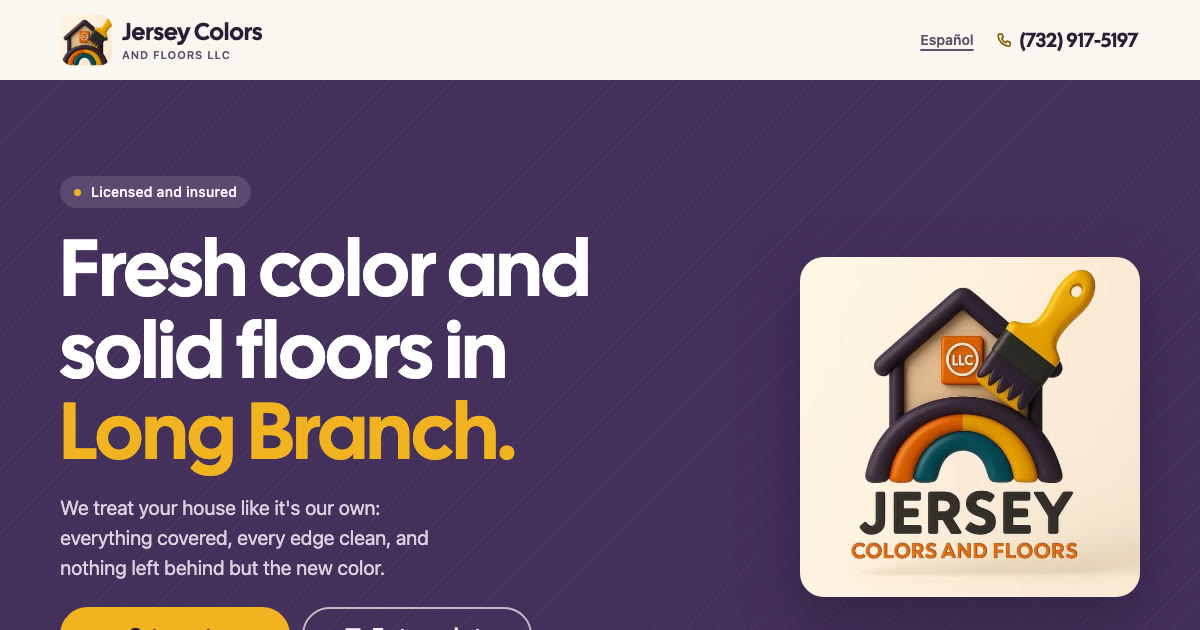
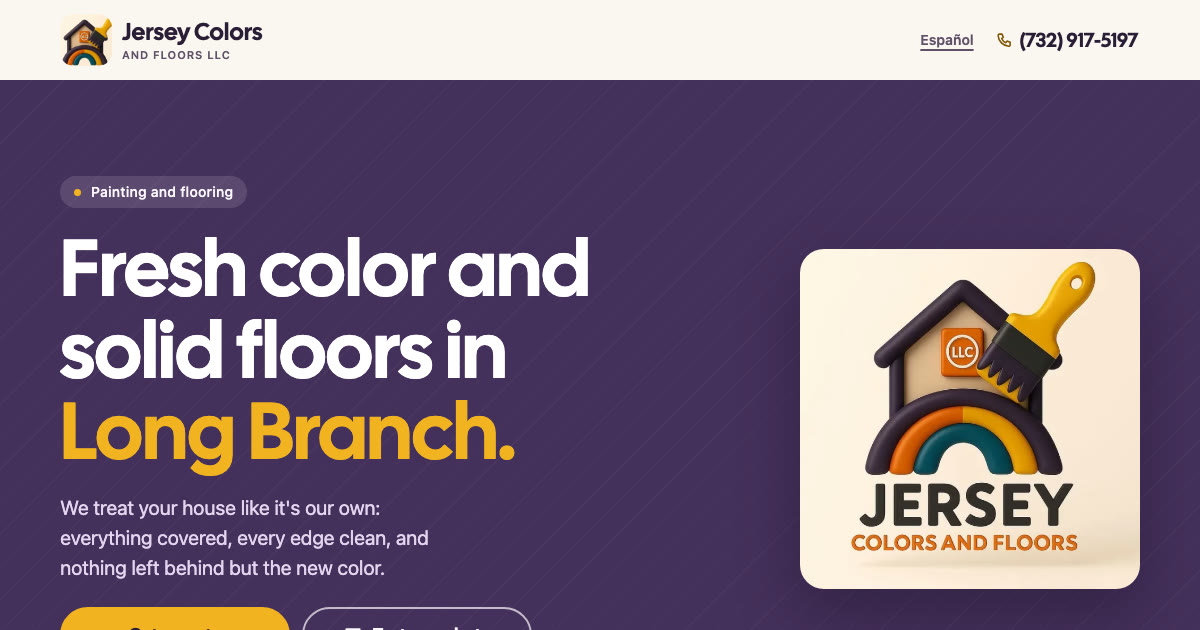
Apply the Impeccable sweep: truth fixes (no licensing claim up top, no unconfirmed site visit), press feedback, chip checks, landscape hero, ES title, desktop work layout
Claude-Session: https://claude.ai/code/session_013PahujnXCzoN9ziQNNxQyR

diff --git a/index.html b/index.html
@@ -4,13 +4,13 @@
 <meta charset="utf-8">
 <meta name="viewport" content="width=device-width, initial-scale=1, viewport-fit=cover">
 <title>Jersey colors and floors LLC · Painting and floors in Long Branch, NJ</title>
-<meta name="description" content="Interior and exterior painting, siding and trim, floors and home remodeling. Licensed and insured. Long Branch, NJ. Call (732) 917-5197.">
+<meta name="description" content="Interior and exterior painting, siding and trim, floors and home remodeling in Long Branch, NJ. Call (732) 917-5197.">
 <meta name="theme-color" content="#faf6f1">
 <link rel="icon" type="image/png" href="assets/favicon.png">
 <link rel="apple-touch-icon" href="assets/apple-touch-icon.png">
 <meta property="og:type" content="website">
 <meta property="og:title" content="Jersey colors and floors LLC · Painting and floors in Long Branch, NJ">
-<meta property="og:description" content="Fresh color and solid floors. Licensed and insured. Text us a photo of the job for a quote.">
+<meta property="og:description" content="Fresh color and solid floors in Long Branch, NJ. Text us a photo of the job for a quote.">
 <meta property="og:url" content="https://10elizabethbell.github.io/jerseyColors/">
 <meta property="og:image" content="https://10elizabethbell.github.io/jerseyColors/assets/og.jpg">
 <meta property="og:image:width" content="1200">
@@ -26,18 +26,17 @@
   --paper:#faf6f1;       /* page ground */
   --cream:#fbead6;       /* light band: the logo's own background */
   --card:#ffffff;
-  --field:#efe5da;       /* inputs and chips on the white form card */
+  --field:#ebdfd2;       /* inputs and chips on the white form card */
   --ink:#2b1d36;         /* headings, text on gold */
   --body:#3d2f47;        /* running text on light */
   --soft:#5f5068;        /* secondary text on light */
   --navy:#45305c;        /* mid plum: hero, close */
   --deep:#271a32;        /* how a job goes, footer (line texture) */
   --on-dark:#fbf7fb;
-  --on-dark-soft:#ddd0e2;
+  --on-dark-soft:#e5d3ef;
   --gold:#f2b322;        /* fills only; text on it is --ink */
   --gold-2:#f7c650;
   --gold-ink:#7f5300;    /* gold as text on light */
-  --orange:#dd6e14;      /* logo arch, decoration only */
   --teal:#0e6470;        /* form hover/focus outline, distinct from the gold fill */
   --line:rgba(43,29,54,.12);
   --error:#b3261e;
@@ -86,7 +85,7 @@ section{padding:64px 0}
 .btn svg{width:20px;height:20px;flex:none}
 .btn-primary{background:var(--gold);color:var(--ink);border-color:var(--gold)}
 .btn-ghost{background:transparent;color:var(--on-dark);border-color:rgba(251,247,251,.7)}
-.btn-line{background:transparent;color:var(--ink);border-color:rgba(43,29,54,.35)}
+.btn-line{background:transparent;color:var(--ink);border-color:rgba(43,29,54,.55)}
 
 /* ---------- Header ---------- */
 .top{background:var(--paper);color:var(--ink)}
@@ -107,9 +106,9 @@ section{padding:64px 0}
 }
 
 /* ---------- Hero ---------- */
-.hero{padding:0;position:relative;background-color:var(--navy);background-image:var(--texture);color:var(--on-dark);overflow:hidden}
+.hero{padding:56px 0 64px;position:relative;background-color:var(--navy);background-image:var(--texture);color:var(--on-dark);overflow:hidden}
 .hero .wrap{position:relative}
-.hero-copy{position:relative;z-index:1;display:grid;gap:20px;justify-items:start;padding-top:56px;padding-bottom:64px}
+.hero-copy{position:relative;z-index:1;display:grid;gap:20px;justify-items:start}
 .hero h1{color:#fff;font-size:clamp(42px,12vw,80px);line-height:1.02;max-width:12ch}
 /* H1 bounce-in (after lpmr.co.uk): each letter slides in from 50px right with a slight overshoot, 20ms apart */
 .hero h1 .w{display:inline-block;white-space:nowrap}
@@ -124,8 +123,9 @@ section{padding:64px 0}
 .rows li+li{border-top:1px solid var(--line)}
 .row{display:flex;align-items:center;justify-content:space-between;gap:16px;min-height:72px;padding:12px 0;text-decoration:none;color:var(--ink);font:400 clamp(21px,5.6vw,26px)/1.15 var(--display)}
 .row:hover,.row:focus-visible{outline:none;background:none;box-shadow:none}
-.arrow{width:44px;height:44px;flex:none;border-radius:50%;display:grid;place-items:center;background:rgba(43,29,54,.07);color:var(--ink);transition:background-color .2s,color .2s}
-.arrow svg{width:18px;height:18px}
+.arrow{width:44px;height:44px;flex:none;border-radius:50%;display:grid;place-items:center;background:rgba(43,29,54,.07);color:var(--ink);transition:background-color .2s,color .2s,transform .12s}
+.arrow svg{width:18px;height:18px;transition:transform .2s cubic-bezier(.16,1,.3,1)}
+.row:active .arrow,.fb:active .arrow{transform:scale(.92)}
 .row:focus-visible .arrow{background:var(--gold);outline:3px solid var(--teal);outline-offset:3px}
 
 /* ---------- How a job goes ---------- */
@@ -137,9 +137,11 @@ section{padding:64px 0}
 
 /* ---------- Our work ---------- */
 .post{margin:32px 0 0;background:var(--card);border-radius:var(--r-card);padding:clamp(22px,6vw,36px);max-width:640px}
+.post blockquote{margin:0}
 .post p{font:400 clamp(24px,6.6vw,34px)/1.2 var(--display);color:var(--ink)}
 .post em{font-style:normal;color:var(--gold-ink)}
-.post cite{display:block;margin-top:16px;font:400 15px/1.4 var(--text);font-style:normal;color:var(--soft)}
+.post figcaption{margin-top:16px;font:400 15px/1.4 var(--text);color:var(--soft)}
+.post cite{font-style:normal}
 .fb{margin-top:20px;display:flex;align-items:center;justify-content:space-between;gap:14px;min-height:76px;padding:14px 16px 14px 22px;border-radius:var(--r-card);background:var(--navy);color:var(--on-dark);text-decoration:none;font:400 clamp(19px,5.2vw,22px)/1.2 var(--display);max-width:640px}
 .fb:hover,.fb:focus-visible{outline:none;box-shadow:none}
 .fb .lbl{display:flex;align-items:center;gap:14px}
@@ -161,9 +163,12 @@ input::placeholder,textarea::placeholder{color:var(--soft)}
 input[type=text]:focus,textarea:focus{outline:none;border-color:var(--teal)}
 .chips{display:flex;flex-wrap:wrap;gap:10px}
 .chips input{position:absolute;width:1px;height:1px;opacity:0;margin:0}
-.chips label{display:inline-flex;align-items:center;min-height:48px;padding:0 18px;border-radius:var(--pill);background:var(--field);border:2px solid transparent;font:16px/1 var(--text);color:var(--ink);cursor:pointer;margin:0;transition:border-color .15s,background-color .15s,color .15s}
+.chips label{display:inline-flex;align-items:center;min-height:48px;padding:0 18px;border-radius:var(--pill);background:var(--field);border:2px solid transparent;font:16px/1 var(--text);color:var(--ink);cursor:pointer;margin:0;transition:border-color .15s,background-color .15s,color .15s,box-shadow .2s,transform .12s}
+.chips label:active{transform:scale(.97)}
 .chips input:focus-visible+label{outline:3px solid var(--teal);outline-offset:3px}
 .chips input:checked+label{background:var(--ink);color:#fff}
+.chips input:checked+label::before{content:"";width:12px;height:6px;margin-right:9px;border:solid currentColor;border-width:0 0 2.5px 2.5px;transform:translateY(-2px) rotate(-45deg)}
+.chips input.just+label{box-shadow:0 0 0 3px var(--gold)}
 .err{font-size:15px;color:var(--error)}
 .err:empty{display:none}
 .field.bad input[type=text]{border-color:var(--error)}
@@ -179,10 +184,9 @@ form .btn-primary:focus-visible{outline:3px solid var(--teal);outline-offset:3px
 @media (max-width:380px){.chips label{padding:0 14px}}
 
 /* ---------- Close ---------- */
-.close .who{margin-top:14px;font-size:clamp(18px,5vw,20px);color:var(--on-dark-soft)}
 .bigtel{display:inline-flex;align-items:center;gap:12px;margin-top:28px;font:400 clamp(30px,9vw,52px)/1 var(--display);text-decoration:none;color:var(--on-dark);min-height:56px;white-space:nowrap}
 .bigtel svg{width:.8em;height:.8em;flex:none;color:var(--gold)}
-.area{margin-top:22px;max-width:40ch}
+.area{margin-top:16px;max-width:40ch;font-size:clamp(17px,4.6vw,19px)}
 
 /* ---------- Footer ---------- */
 footer{background-color:var(--deep);background-image:var(--texture);color:var(--on-dark-soft);padding:48px 0 calc(96px + env(safe-area-inset-bottom));font-size:16px}
@@ -193,13 +197,19 @@ footer a{display:inline-flex;align-items:center;min-height:44px;color:var(--on-d
 footer small{font-size:14px}
 
 /* ---------- Floating text circle (one circle, never a bottom bar) ---------- */
-.float{position:fixed;z-index:15;right:calc(16px + env(safe-area-inset-right));bottom:calc(16px + env(safe-area-inset-bottom));width:60px;height:60px;border-radius:50%;display:grid;place-items:center;background:var(--gold);color:var(--ink);box-shadow:0 10px 28px rgba(39,26,50,.32);transform:translateY(120px);transition:transform .35s cubic-bezier(.2,.8,.2,1)}
-.float.on{transform:none}
+.float{display:none;position:fixed;z-index:15;right:calc(16px + env(safe-area-inset-right));bottom:calc(16px + env(safe-area-inset-bottom));width:60px;height:60px;border-radius:50%;display:grid;place-items:center;background:var(--gold);color:var(--ink);box-shadow:0 10px 28px rgba(39,26,50,.32);transform:translateY(120px);transition:transform .22s cubic-bezier(.2,.8,.2,1)}
+.js .float{display:grid}
+.float.on{transform:none;transition-duration:.35s}
+.float.on:active{transform:scale(.94)}
 .float svg{width:26px;height:26px}
 .float:focus-visible{outline:3px solid var(--teal);outline-offset:3px;border-radius:50%}
 
 /* ---------- Motion: one fade-up, only for things below the first screen ---------- */
-.js .rise{transition:opacity .4s ease-out,transform .4s ease-out}
+.js .rise{transition:opacity .4s cubic-bezier(.16,1,.3,1),transform .4s cubic-bezier(.16,1,.3,1)}
+.js .rows li.rise:nth-child(2){transition-delay:40ms}
+.js .rows li.rise:nth-child(3){transition-delay:80ms}
+.js .rows li.rise:nth-child(4){transition-delay:120ms}
+.js .rows li.rise:nth-child(5){transition-delay:160ms}
 .js .rise.below{opacity:0;transform:translateY(12px)}
 
 /* ---------- Desktop ---------- */
@@ -212,7 +222,7 @@ footer small{font-size:14px}
   .lang .long{display:inline}.lang .short{display:none}
   .tel{font-size:20px}
   section{padding:96px 0}
-  .hero-copy{padding-top:96px;padding-bottom:112px}
+  .hero{padding:96px 0 112px}
   .actions{grid-auto-flow:column;justify-content:start;width:auto}
   .actions .btn{min-width:230px}
   .rows{grid-template-columns:1fr 1fr;column-gap:56px}
@@ -224,7 +234,7 @@ footer small{font-size:14px}
   .hero-logo{display:block;width:340px;height:340px;border-radius:var(--r-card);box-shadow:0 24px 60px rgba(20,10,30,.35)}
   .work .wrap{display:grid;grid-template-columns:1fr 1.4fr;column-gap:64px;align-items:start}
   .work .post{margin-top:0;grid-column:2;grid-row:1/3}
-  .work .fb{grid-column:1;grid-row:2;align-self:end;margin-top:32px}
+  .work .fb{grid-column:1;grid-row:2;align-self:start;margin-top:28px}
   .ask .wrap{grid-template-columns:1fr 1.2fr;gap:64px;align-items:start}
   .ask .head{position:sticky;top:40px}
   .close .wrap{display:grid;grid-template-columns:1fr auto;gap:48px;align-items:end}
@@ -241,6 +251,8 @@ footer small{font-size:14px}
   .btn-line:hover{border-color:var(--teal)}
   .row:hover .arrow{background:var(--gold);color:var(--ink)}
   .fb:hover .arrow{background:var(--gold);color:var(--ink)}
+  .row:hover .arrow svg,.fb:hover .arrow svg{transform:translateX(3px)}
+  .field.bad input[type=text]:hover{border-color:var(--error)}
   input[type=text]:hover,textarea:hover{border-color:var(--teal)}
   .chips label:hover{border-color:var(--teal)}
   form .btn-primary:hover{outline:3px solid var(--teal);outline-offset:3px}
@@ -248,9 +260,19 @@ footer small{font-size:14px}
   .bigtel:hover{color:var(--gold)}
   footer a:hover{color:var(--gold)}
 }
+/* landscape phones: keep the buttons on the first screen */
+@media (min-width:760px) and (max-height:500px){
+  .hero{padding:32px 0 40px}
+  .hero-copy{gap:14px}
+  .hero h1{font-size:52px}
+  section{padding:64px 0}
+}
 @media (prefers-reduced-motion:reduce){
   html{scroll-behavior:auto}
-  .js .rise,.float,.btn{transition:none}
+  .js .rise,.float{transition:none}
+  .btn,.chips label,.arrow{transition:background-color .2s,color .2s,border-color .2s}
+  .btn:active,.chips label:active,.row:active .arrow,.fb:active .arrow,.float.on:active{transform:none}
+  .arrow svg,.row:hover .arrow svg,.fb:hover .arrow svg{transition:none;transform:none}
   .js .rise.below{opacity:1;transform:none}
   .hero h1 .c{animation:none;opacity:1;transform:none}
 }
@@ -260,8 +282,8 @@ footer small{font-size:14px}
 <!--
 THESIS: A painting and floors crew with no website gets a calm, orderly home online (after lpmr.co.uk) that says who they are, that they treat the house like their own, and how to get a quote by text.
 OWN-WORLD: The logo's own colours mapped onto the calm bands: warm paper and the logo's cream, mid plum (#45305c) and deep plum (#271a32, faint diagonal lines) from the logo outline, brush gold (#f2b322) as the one warm accent (fills only; #7f5300 as text on light). Cal Sans display, system body at 16/1.7.
-STORY: The visitor sees fresh color and floors in Long Branch from a licensed, insured crew, scans what they do, sees how a job goes and their latest finished job, and texts a quote request with a photo.
-FIRST VIEWPORT: Paper header with logo mark and wordmark left, ES toggle and tap-to-call number top right. Plum hero with line texture: eyebrow "Licensed and insured", "Fresh color and solid floors in Long Branch.", one promise line, two pill buttons (Get a quote, Text us a photo). Desktop adds the full logo on a card to the right.
+STORY: The visitor sees fresh color and floors in Long Branch from a crew that treats the house like its own, scans what they do, sees how a job goes and their latest finished job, and texts a quote request with a photo.
+FIRST VIEWPORT: Paper header with logo mark and wordmark left, ES toggle and tap-to-call number top right. Plum hero with line texture: eyebrow "Painting and flooring", "Fresh color and solid floors in Long Branch.", one promise line, two pill buttons (Get a quote, Text us a photo). Desktop adds the full logo on a card to the right.
 FORM: calm band system without a photo hero (no verified work photos: the only candidate is an unconfirmed roof tear-off with faces). The earlier paint-the-house world is in git history (dd2c66a) and is the opt-in signature runner-up.
 FINISH: unreviewed and undocumented is unfinished; this build ends with the finish review, the verdict, DESIGN.md, and every shipping raster carrying its provenance
 -->
@@ -286,7 +308,7 @@ FINISH: unreviewed and undocumented is unfinished; this build ends with the fini
 <section class="hero" id="hero" aria-labelledby="h1">
   <div class="wrap">
     <div class="hero-copy">
-      <p class="eyebrow" data-i18n="eyebrow">Licensed and insured</p>
+      <p class="eyebrow" data-i18n="eyebrow">Painting and flooring</p>
       <h1 id="h1" data-i18n="h1">Fresh color and solid floors in <span class="accent">Long Branch.</span></h1>
       <p class="promise" data-i18n="promise">We treat your house like it's our own: everything covered, every edge clean, and nothing left behind but the new color.</p>
       <div class="actions">
@@ -294,7 +316,7 @@ FINISH: unreviewed and undocumented is unfinished; this build ends with the fini
         <a class="btn btn-ghost" id="textPhoto" data-sms="photo" href="sms:+17329175197?&amp;body=Hi%20Jersey%20Colors!%20I'd%20like%20a%20quote.%20Here's%20a%20photo%20of%20the%20job."><svg aria-hidden="true"><use href="#i-chat"/></svg><span data-i18n="ctaText">Text us a photo</span></a>
       </div>
     </div>
-    <img class="hero-logo" src="assets/logo.webp" alt="Jersey colors and floors LLC logo: a house with a paintbrush over orange, gold and teal arches" width="340" height="340" data-i18n-alt="logoAlt">
+    <img class="hero-logo" loading="lazy" src="assets/logo.webp" alt="Jersey colors and floors LLC logo: a house with a paintbrush over orange, gold and teal arches" width="340" height="340" data-i18n-alt="logoAlt">
   </div>
 </section>
 
@@ -319,7 +341,7 @@ FINISH: unreviewed and undocumented is unfinished; this build ends with the fini
     <h2 id="h-how" class="rise" data-i18n="howH">How a job <span class="accent">goes.</span></h2>
     <ol class="steps">
       <li class="rise"><div><b data-i18n="st1">Send us a photo.</b><span data-i18n="st1p">A picture of the room or the outside and your town is enough to start.</span></div></li>
-      <li class="rise"><div><b data-i18n="st2">We come take a look.</b><span data-i18n="st2p">We walk it with you, listen to what you want, and give you a clear quote.</span></div></li>
+      <li class="rise"><div><b data-i18n="st2">We give you a clear quote.</b><span data-i18n="st2p">We listen to what you want and tell you plainly what it takes.</span></div></li>
       <li class="rise"><div><b data-i18n="st3">We leave it clean.</b><span data-i18n="st3p">Floors and furniture covered, clean lines, and we tidy up before we go.</span></div></li>
     </ol>
   </div>
@@ -329,8 +351,8 @@ FINISH: unreviewed and undocumented is unfinished; this build ends with the fini
   <div class="wrap">
     <h2 id="h-work" class="rise" data-i18n="workH">Our work</h2>
     <figure class="post rise">
-      <p data-i18n="latest">“Just wrapped this full exterior in Monmouth County, NJ — siding, trim, the whole house <em>came out sharp</em> 🏠”</p>
-      <cite data-i18n="latestCite">From our latest job post</cite>
+      <blockquote><p data-i18n="latest">“Just wrapped this full exterior in Monmouth County, NJ — siding, trim, the whole house <em>came out sharp</em> 🏠”</p></blockquote>
+      <figcaption><cite data-i18n="latestCite">From our latest job post</cite></figcaption>
     </figure>
     <a class="fb rise" href="https://www.facebook.com/profile.php?id=61584889347399" rel="noopener">
       <span class="lbl"><svg aria-hidden="true"><use href="#i-fb"/></svg><span data-i18n="fb">See more of our work on Facebook</span></span>
@@ -344,7 +366,7 @@ FINISH: unreviewed and undocumented is unfinished; this build ends with the fini
     <div class="head rise">
       <p class="eyebrow" data-i18n="qEyebrow">Big job or small</p>
       <h2 id="h-ask" data-i18n="qH">Get a quote</h2>
-      <p class="lede" data-i18n="qLede">Tell us what you need. A photo of the job helps us price it.</p>
+      <p class="lede" data-i18n="qLede">A photo of the job helps us price it.</p>
     </div>
     <form id="qform" class="rise" novalidate>
       <fieldset class="field" id="f-job">
@@ -372,7 +394,7 @@ FINISH: unreviewed and undocumented is unfinished; this build ends with the fini
         <label for="qNotes"><span data-i18n="qNotes">Anything else?</span> <small data-i18n="optional">(optional)</small></label>
         <textarea id="qNotes" name="notes" maxlength="600" data-i18n-ph="qNotesPh" placeholder="Rooms, colors, when you'd like it done"></textarea>
       </div>
-      <button class="btn btn-primary" type="submit"><svg aria-hidden="true"><use href="#i-chat"/></svg><span data-i18n="qSend">Text us this quote</span></button>
+      <button class="btn btn-primary" type="submit"><svg aria-hidden="true"><use href="#i-chat"/></svg><span data-i18n="qSend">Text us this request</span></button>
       <p class="after" data-i18n="qHelp">Opens your messages with this written out. Add a photo before you send.</p>
       <div class="done" id="done" role="status" tabindex="-1" hidden>
         <p data-i18n="doneP">Didn't open your messages? Send it from here:</p>
@@ -390,9 +412,8 @@ FINISH: unreviewed and undocumented is unfinished; this build ends with the fini
 <section class="on-navy close" aria-labelledby="h-close">
   <div class="wrap">
     <div class="rise">
-      <h2 id="h-close">Jersey colors and floors LLC</h2>
-      <p class="who" data-i18n="who">Painting and floors across New Jersey.</p>
-      <p class="area" data-i18n="area">Based in Long Branch and working across Monmouth County. Not sure we cover your town? Call and ask.</p>
+      <h2 id="h-close">Jersey colors <span class="accent">and floors LLC</span></h2>
+      <p class="area" data-i18n="area">Licensed and insured. Based in Long Branch and working across Monmouth County. Not sure we cover your town? Call and ask.</p>
     </div>
     <a class="bigtel rise" href="tel:+17329175197"><svg aria-hidden="true"><use href="#i-phone"/></svg>(732)&nbsp;917-5197</a>
   </div>
@@ -426,7 +447,7 @@ window.JC = {};
 (function () {
   var ES = {
     tagline: 'and Floors LLC',
-    eyebrow: 'Con licencia y asegurados',
+    eyebrow: 'Pintura y pisos',
     h1: 'Color fresco y pisos firmes en <span class="accent">Long Branch.</span>',
     promise: 'Cuidamos tu casa como si fuera nuestra: todo cubierto, cada borde limpio, y lo único que dejamos es el color nuevo.',
     ctaQuote: 'Pide tu cotización', ctaText: 'Mándanos una foto',
@@ -435,23 +456,24 @@ window.JC = {};
     svcH: 'Lo que hacemos', s1: 'Pintura interior', s2: 'Pintura exterior', s3: 'Siding y molduras', s4: 'Pisos', s5: 'Remodelación de casas',
     howH: 'Cómo <span class="accent">trabajamos.</span>',
     st1: 'Mándanos una foto.', st1p: 'Una foto del cuarto o de afuera y tu ciudad bastan para empezar.',
-    st2: 'Vamos a verlo.', st2p: 'Lo recorremos contigo, escuchamos lo que quieres y te damos una cotización clara.',
+    st2: 'Te damos una cotización clara.', st2p: 'Escuchamos lo que quieres y te decimos claramente lo que lleva.',
     st3: 'Lo dejamos limpio.', st3p: 'Pisos y muebles cubiertos, líneas limpias, y recogemos todo antes de irnos.',
     workH: 'Nuestro trabajo',
     latest: '“Acabamos de terminar este exterior completo en el condado de Monmouth, NJ: siding, molduras, toda la casa <em>quedó impecable</em> 🏠”',
     latestCite: 'De nuestra última publicación (traducida)',
     fb: 'Mira más de nuestro trabajo en Facebook',
-    qEyebrow: 'Grande o pequeño', qH: 'Pide tu cotización', qLede: 'Cuéntanos qué necesitas. Una foto del trabajo nos ayuda a darte el precio.',
+    qEyebrow: 'Grande o pequeño', qH: 'Pide tu cotización', qLede: 'Una foto del trabajo nos ayuda a darte el precio.',
     qJob: '¿Qué necesitas?', qName: 'Tu nombre', qTown: 'Tu ciudad', qTownPh: 'p. ej. Long Branch', qNotes: '¿Algo más?', optional: '(opcional)',
     qNotesPh: 'Cuartos, colores, para cuándo lo quieres',
-    qSend: 'Mándanos esto por texto', qHelp: 'Abre tus mensajes con esto ya escrito. Agrega una foto antes de enviar.',
+    qSend: 'Mándanos esta solicitud por texto', qHelp: 'Abre tus mensajes con esto ya escrito. Agrega una foto antes de enviar.',
     doneP: '¿No se abrieron tus mensajes? Envíalo desde aquí:', openMsg: 'Abrir en Mensajes', copy: 'Copiar mensaje', copied: 'Copiado', orCall: 'O llámanos al',
-    who: 'Pintura y pisos en todo Nueva Jersey.',
-    area: 'Estamos en Long Branch y trabajamos en todo el condado de Monmouth. ¿No sabes si llegamos a tu ciudad? Llama y pregunta.',
+    area: 'Con licencia y asegurados. Estamos en Long Branch y trabajamos en todo el condado de Monmouth. ¿No sabes si llegamos a tu ciudad? Llama y pregunta.',
     footArea: 'Long Branch, Nueva Jersey',
-    floatAria: 'Escríbele a Jersey Colors'
+    floatAria: 'Escríbele a Jersey Colors',
+    selected: 'Seleccionado, ahora cópialo',
+    title: 'Jersey colors and floors LLC · Pintura y pisos en Long Branch, NJ'
   };
-  var EN = { copied: 'Copied' };
+  var EN = { copied: 'Copied', selected: 'Selected, now copy it', title: document.title };
   document.querySelectorAll('[data-i18n]').forEach(function (n) { EN[n.dataset.i18n] = n.innerHTML; });
   document.querySelectorAll('[data-i18n-aria]').forEach(function (n) { EN[n.dataset.i18nAria] = n.getAttribute('aria-label'); });
   document.querySelectorAll('[data-i18n-ph]').forEach(function (n) { EN[n.dataset.i18nPh] = n.getAttribute('placeholder'); });
@@ -470,6 +492,7 @@ window.JC = {};
     document.querySelectorAll('[data-i18n-ph]').forEach(function (n) { var v = D[n.dataset.i18nPh]; if (v != null) n.setAttribute('placeholder', v); });
     document.querySelectorAll('[data-i18n-alt]').forEach(function (n) { var v = D[n.dataset.i18nAlt]; if (v != null) n.setAttribute('alt', v); });
     document.getElementById('h1').removeAttribute('aria-label');
+    document.title = D.title;
     var other = lang === 'es' ? 'en' : 'es';
     btn.setAttribute('lang', other);
     btn.setAttribute('aria-label', other === 'es' ? 'Ver en español' : 'View in English');
@@ -571,12 +594,20 @@ window.JC = {};
   JC.onLang.push(function () { show(false); [['f-job','eJob'], ['f-name','eName'], ['f-town','eTown']].forEach(function (p) { setErr(p[0], p[1], null, ''); }); });
   // a service row pre-selects its job in the form
   document.querySelectorAll('.row[data-job]').forEach(function (a) {
-    a.addEventListener('click', function () { var c = f.querySelector('input[value="' + a.dataset.job + '"]'); if (c) { c.checked = true; setErr('f-job', 'eJob', null, ''); } });
+    a.addEventListener('click', function () {
+      var c = f.querySelector('input[value="' + a.dataset.job + '"]');
+      if (!c) return;
+      c.checked = true; setErr('f-job', 'eJob', null, '');
+      // a brief gold ring shows which job the row picked
+      c.classList.add('just'); setTimeout(function () { c.classList.remove('just'); }, 1200);
+    });
   });
   document.getElementById('copyMsg').addEventListener('click', function () {
     var b = this;
-    function ok() { b.textContent = JC.t('copied'); setTimeout(function () { b.textContent = JC.t('copy'); }, 2200); }
-    function sel() { var r = document.createRange(); r.selectNodeContents(msg); var w = getSelection(); w.removeAllRanges(); w.addRange(r); }
+    function say(k) { clearTimeout(b._t); b.textContent = JC.t(k); b._t = setTimeout(function () { b.textContent = JC.t('copy'); }, 2200); }
+    function ok() { say('copied'); }
+    // clipboard blocked (some in-app browsers): select the text so a long-press copies it
+    function sel() { var r = document.createRange(); r.selectNodeContents(msg); var w = getSelection(); w.removeAllRanges(); w.addRange(r); say('selected'); }
     try { navigator.clipboard.writeText(msg.textContent).then(ok, sel); } catch (e) { sel(); }
   });
 })();

diff --git a/PRODUCT.md b/PRODUCT.md
@@ -2,13 +2,13 @@
 
 ## Platform
 - Platform: `web`
-- Stack: static single-file HTML/CSS/JS (`index.html`), no frameworks, no tracking, system font stack. Hosted on GitHub Pages.
+- Stack: static single-file HTML/CSS/JS (`index.html`), no frameworks, no tracking. Cal Sans (Google Fonts) for headings, system stack for body. Hosted on GitHub Pages.
 
 ## Users
 - **Primary:** New Jersey homeowners (Monmouth County first) who found the business on Facebook and open the link on a phone, inside Facebook's in-app browser. They want to know: do they do my kind of job, is the work good, how do I get a quote.
 - **Bilingual:** the owner's own self-description is in Spanish; the audience is inferred to be English and Spanish speaking. The site offers both.
 - **Secondary:** the owner, who sees the site first and has to recognise their business in it.
-- Audience age: not flagged as 40+ (general homeowners), so the house signature motion applies.
+- Audience age: not flagged as 40+ (general homeowners), so the calm style's motion applies (hero H1 bounce-in, one fade-up, floating text circle).
 
 ## Purpose
 Give a painting and flooring crew with no website a real home online that turns Facebook curiosity into a quote request by text or call.
@@ -25,7 +25,7 @@ A crew that paints and refinishes homes across New Jersey and treats the house l
 ## Brand commitments
 - Name exactly "Jersey colors and floors LLC"; short form "Jersey Colors". Never "Sherlock".
 - Logo (from the Facebook page profile image, 2026-10-18): a soft 3D illustration of a plum-outlined house with a cream wall, an orange "LLC" badge, a gold paintbrush with plum bristles, and rainbow arches in orange, gold and teal over the wordmark "JERSEY / COLORS AND FLOORS" on cream.
-- Palette carried from the logo: plum, orange, gold, teal, cream. Page ground never black.
+- Palette carried from the logo onto the calm band roles (since the 2026-10-19 revamp): warm paper and the logo's cream for light bands, mid and deep plum for dark bands, brush gold as the one warm accent (fills only). Teal is the form focus colour. Page ground never black.
 - Voice: a crew, so "we / our". Plain and warm, about care for the customer's home.
 
 ## Evidence on hand
@@ -37,5 +37,5 @@ A crew that paints and refinishes homes across New Jersey and treats the house l
 ## Principles
 1. Phone first: the first phone screen says who, what, where and how to reach them.
 2. Only true things: no invented reviews, prices, years, photos or towns.
-3. The page lets the visitor do the trade's work: paint a house.
+3. Calm and orderly (the house calm band style): one clear headline, few things moving.
 4. Fewer contact options, each one obvious.
